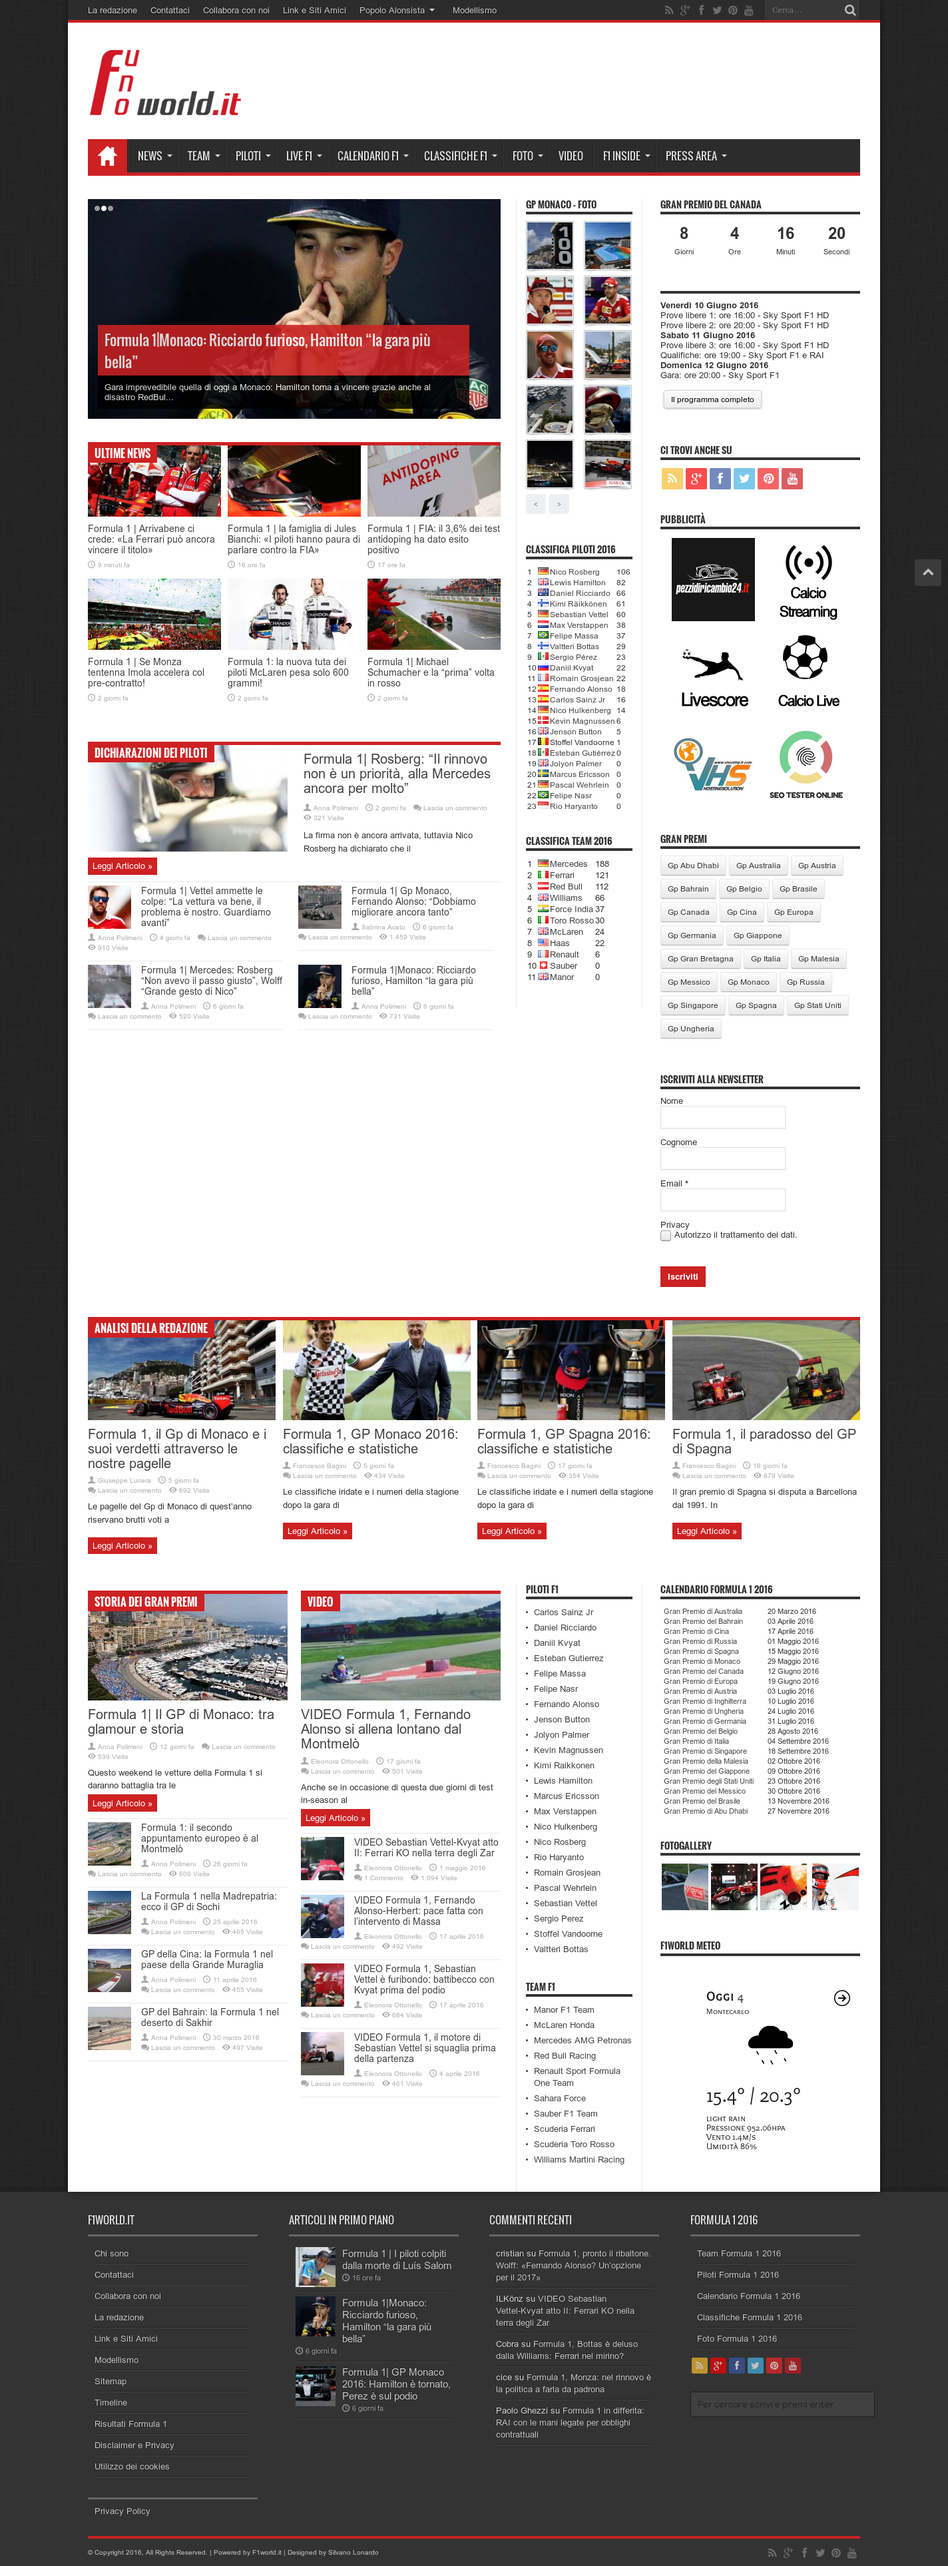
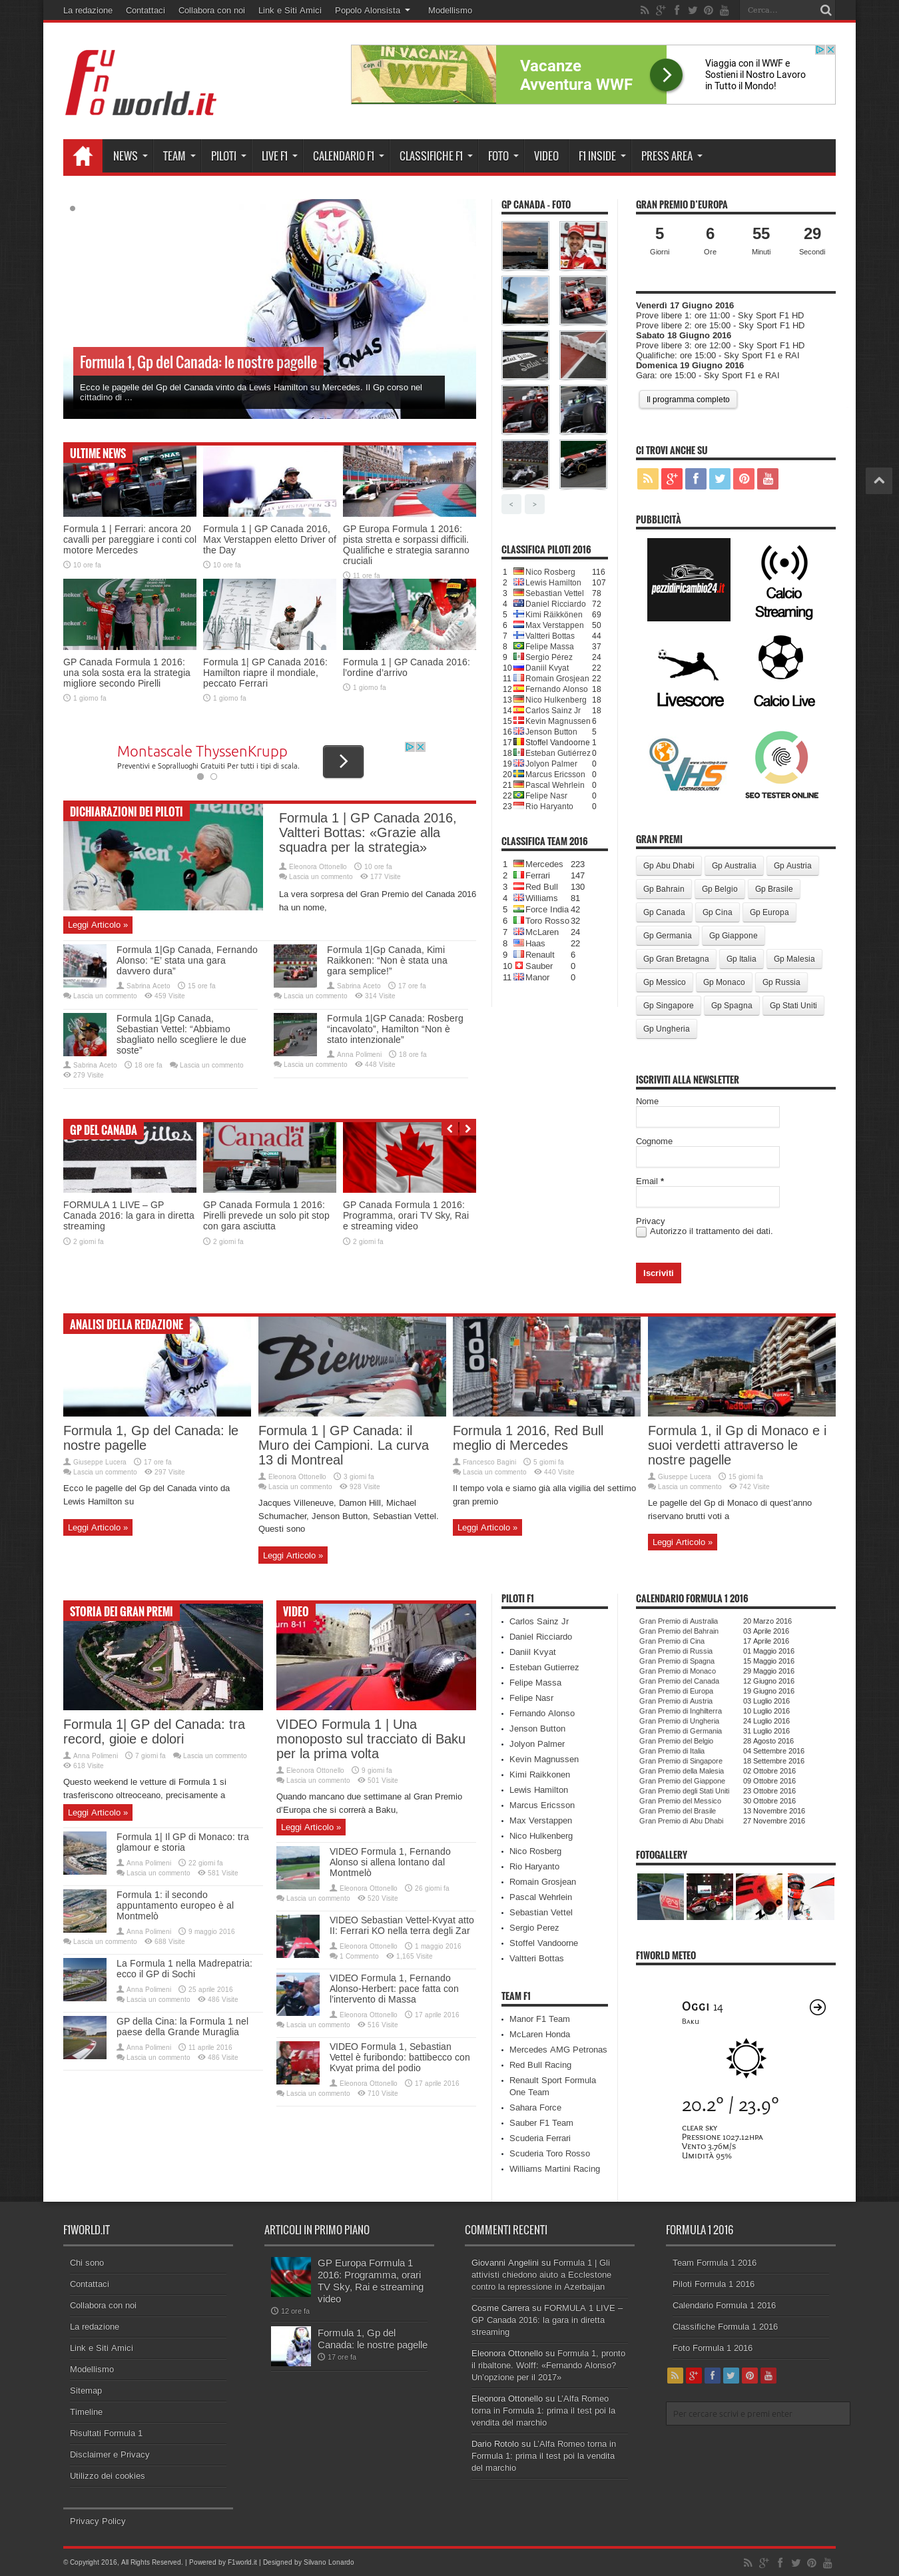
Update information about header I forgot to disable Ghostery for f1world.com so some ads were disabled

diff --git a/res/sections/01-GeneralAspects.tex b/res/sections/01-GeneralAspects.tex
@@ -60,8 +60,9 @@ ricerca pi\`u brevi diminuendo l'efficacia del motore di ricerca.
 Subito sotto il piccolo header si trova il logo del sito web: questo logo
 \`e composto da testo, il che aiuta l'utente a diminuire il senso di
 disorientamento rispetto a un logo senza testo.
-Accanto al logo \`e possibile notare uno spazio bianco, che a mio avviso
-potrebbe essere riempito con del contenuto informativo.
+Accanto al logo \`e possibile notare un'inserzione pubblicitaria, che a mio
+avviso potrebbe essere integrata in maniera migliore con il contenuto
+informativo.
 
 
 Dopo il logo troviamo un men\`u orizzontale. Questo men\`u a tendina risulta
